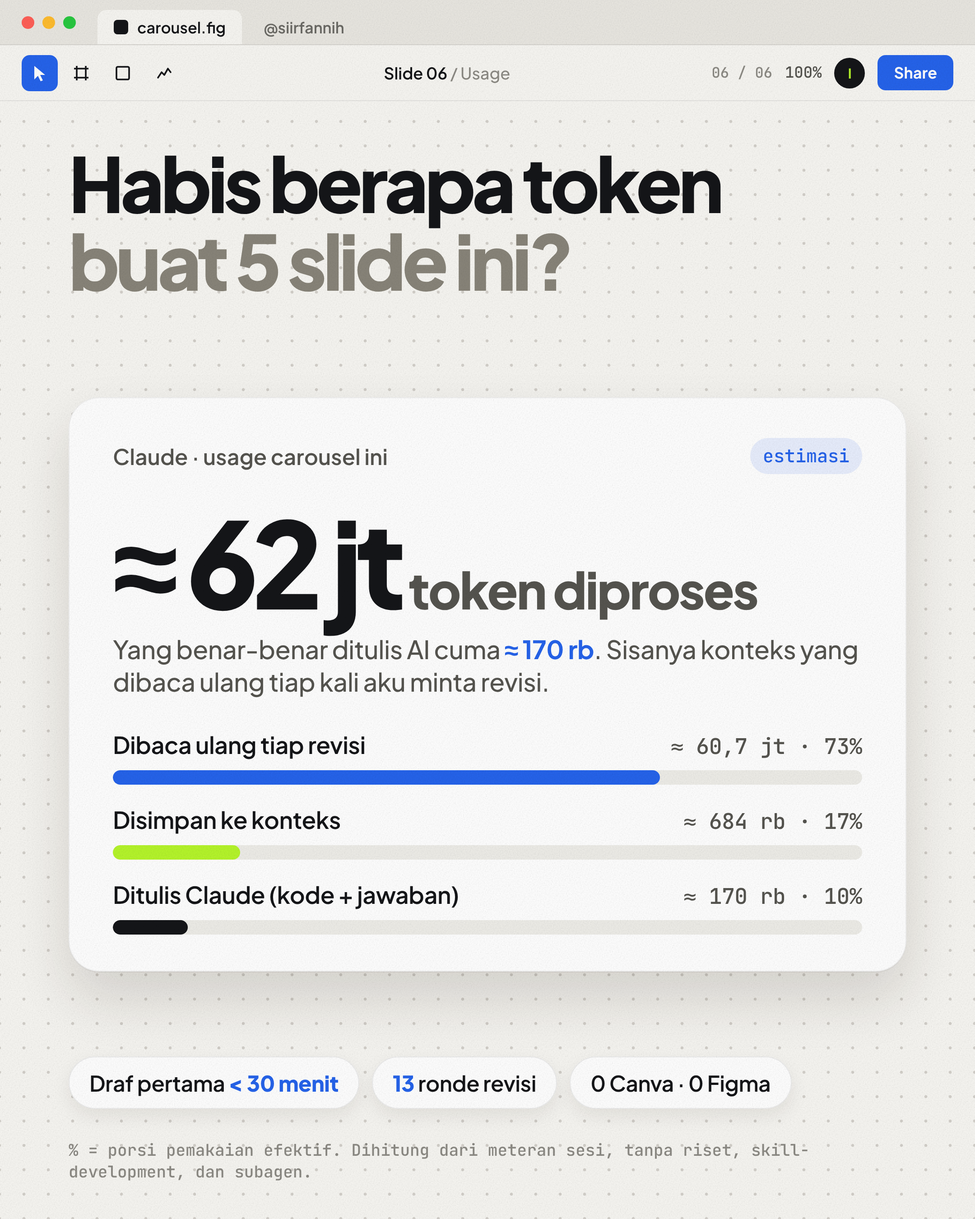
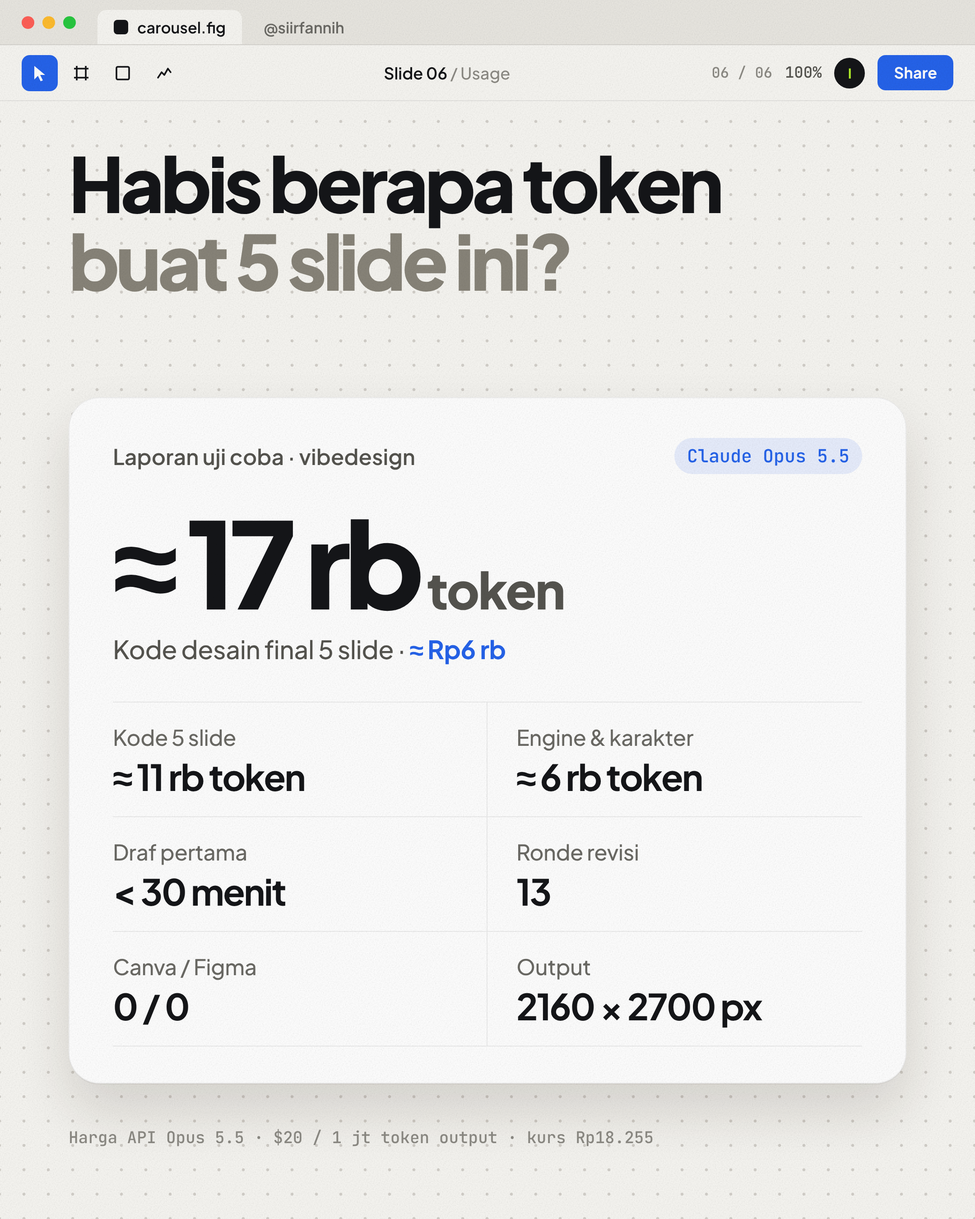
Vibedesign: slide 6 jadi laporan statistik uji coba (17 rb token kode final)
DECISIONS D-035.

Agent: Claude

Claude-Session: https://claude.ai/code/session_01QPNycYFuNNNB3fYh84pWSi

diff --git a/projects/vibedesign-meta-carousel/slides/slide-06.html b/projects/vibedesign-meta-carousel/slides/slide-06.html
@@ -21,7 +21,13 @@
 #slide-6 .chip{font:600 24px/1 var(--sans);letter-spacing:-.01em;color:var(--ink);background:#fff;border:1px solid rgba(20,21,24,.08);
   padding:16px 22px;border-radius:999px;box-shadow:0 8px 20px rgba(42,28,14,.08)}
 #slide-6 .chip b{color:var(--blue)}
-#slide-6 .note{left:76px;right:76px;top:1262px;z-index:20;font:500 18px/1.35 var(--mono);color:#8C8A84}
+#slide-6 .note{left:76px;right:76px;top:1248px;z-index:20;font:500 18px/1.35 var(--mono);color:#8C8A84}
+#slide-6 .stats{margin-top:40px;display:grid;grid-template-columns:1fr 1fr;border-top:1px solid rgba(20,21,24,.08)}
+#slide-6 .st{display:flex;flex-direction:column;gap:12px;padding:26px 0 24px;border-bottom:1px solid rgba(20,21,24,.08)}
+#slide-6 .st:nth-child(odd){padding-right:24px;border-right:1px solid rgba(20,21,24,.08)}
+#slide-6 .st:nth-child(even){padding-left:32px}
+#slide-6 .st span{font:500 24px/1 var(--sans);color:#6B6A65;letter-spacing:-.01em}
+#slide-6 .st b{font:700 40px/1 var(--sans);color:var(--ink);letter-spacing:-.035em}
 </style>
 <section class="slide bg-dots" id="slide-6">
   <div class="chrome" data-dekor>
@@ -45,21 +51,18 @@
   <h2 class="hl" data-baca="1">Habis berapa token<br><span class="mute">buat 5 slide ini?</span></h2>
 
   <div class="card">
-    <div class="top" data-dekor><span>Claude · usage carousel ini</span><span class="tag">estimasi</span></div>
-    <div class="big" data-baca="2">≈ 62 jt<span>token diproses</span></div>
-    <div class="sub" data-baca="3">Yang benar-benar ditulis AI cuma <b>≈ 170 rb</b>. Sisanya konteks yang dibaca ulang tiap kali aku minta revisi.</div>
-    <div class="rows">
-      <div class="row"><div class="lab">Dibaca ulang tiap revisi<em>≈ 60,7 jt · 73%</em></div><div class="meter" data-dekor><i style="width:73%"></i></div></div>
-      <div class="row"><div class="lab">Disimpan ke konteks<em>≈ 684 rb · 17%</em></div><div class="meter" data-dekor><i class="l" style="width:17%"></i></div></div>
-      <div class="row"><div class="lab">Ditulis Claude (kode + jawaban)<em>≈ 170 rb · 10%</em></div><div class="meter" data-dekor><i class="k" style="width:10%"></i></div></div>
+    <div class="top" data-dekor><span>Laporan uji coba · vibedesign</span><span class="tag">Claude Opus 5.5</span></div>
+    <div class="big" data-baca="2">≈ 17 rb<span>token</span></div>
+    <div class="sub" data-baca="3">Kode desain final 5 slide · <b>≈ Rp6 rb</b></div>
+    <div class="stats">
+      <div class="st"><span>Kode 5 slide</span><b>≈ 11 rb token</b></div>
+      <div class="st"><span>Engine & karakter</span><b>≈ 6 rb token</b></div>
+      <div class="st"><span>Draf pertama</span><b>&lt; 30 menit</b></div>
+      <div class="st"><span>Ronde revisi</span><b>13</b></div>
+      <div class="st"><span>Canva / Figma</span><b>0 / 0</b></div>
+      <div class="st"><span>Output</span><b>2160 × 2700 px</b></div>
     </div>
   </div>
 
-  <div class="meta">
-    <span class="chip">Draf pertama <b>&lt; 30 menit</b></span>
-    <span class="chip"><b>13</b> ronde revisi</span>
-    <span class="chip">0 Canva · 0 Figma</span>
-  </div>
-
-  <div class="note" data-dekor>% = porsi pemakaian efektif. Dihitung dari meteran sesi, tanpa riset, skill-development, dan subagen.</div>
+  <div class="note" data-dekor>Harga API Opus 5.5 · $20 / 1 jt token output · kurs Rp18.255</div>
 </section>

diff --git a/projects/vibedesign-meta-carousel/DECISIONS.md b/projects/vibedesign-meta-carousel/DECISIONS.md
@@ -38,3 +38,4 @@ Ledger koreksiku untuk carousel ini saja. Revisi yang mengubah slide menunjuk ID
 | D-032 | 24 Nov | Slide 5 diberi catatan tulisan tangan gaya Excalidraw (font Virgil, OFL) "Neh kan jelek / lagi hasilnya :(" dengan panah coretan ke tanda "?" — komentar jujur bahwa tampilan AI-slop ini memang hasil tanpa arah. Dibaca setelah headline. | 5 | Aktif (ronde 6) |
 | D-033 | 24 Nov | Blok headline slide 5 (Mikirin taste … mau ke mana?) dinaikkan beserta catatan tangan sampai konten mulai di y 160, sama dengan slide 4 (patokan keseimbangan slide 3–4): ruang atas tidak kosong, jarak ke dock lebih lega. Margin atas konten seragam di semua slide ber-header. | 5 | Aktif (ronde 7) |
 | D-034 | 24 Nov | Slide 6 ditambahkan: panel usage "Habis berapa token buat 5 slide ini?" — angka dari meteran sesi, hanya bagian desain carousel (tanpa riset, skill-development, dan subagen), diberi label "estimasi". Penghitung halaman semua slide jadi /06. | 6 | Aktif (ronde 8) |
+| D-035 | 24 Nov | Slide 6 jadi laporan statistik murni tanpa kalimat penjelasan: angka utama = token kode desain final (≈ 17 rb, ≈ Rp6 rb, terukur dari ukuran file slide + engine), ditambah rincian kode, waktu draf pertama, ronde revisi, 0 Canva/Figma, dan resolusi output. Biaya proses riset dan pembuatan skill tidak dihitung karena hanya terjadi sekali; pemakaian ulang skill membuat biaya per carousel berikutnya lebih murah. Menggantikan isi D-034. | 6 | Aktif (ronde 9) |

diff --git a/projects/vibedesign-meta-carousel/TAHAP.md b/projects/vibedesign-meta-carousel/TAHAP.md
@@ -13,6 +13,7 @@
 - Ronde 1: dunia workspace + trio orisinal; render Blender dihapus.
 - Ronde 2: serif dihapus (kecuali slide 5), urutan baca slide 1–3 diperbaiki, slide 4 diganti jendela chat + kartu slop.
 - Ronde 3: hook startup-first, "Tapi...." lurus + jarak bubble rapat, karakter hanya bila berfungsi.
+- Ronde 9: slide 6 jadi laporan statistik murni (D-035).
 - Ronde 8: slide 6 usage token (D-034).
 - Ronde 7: slide 5 konten mulai y 160 seperti slide 4 (D-033).
 - Ronde 6: finishing slide 3–5 (D-029 s.d. D-032), catatan tulisan tangan di slide 5.
